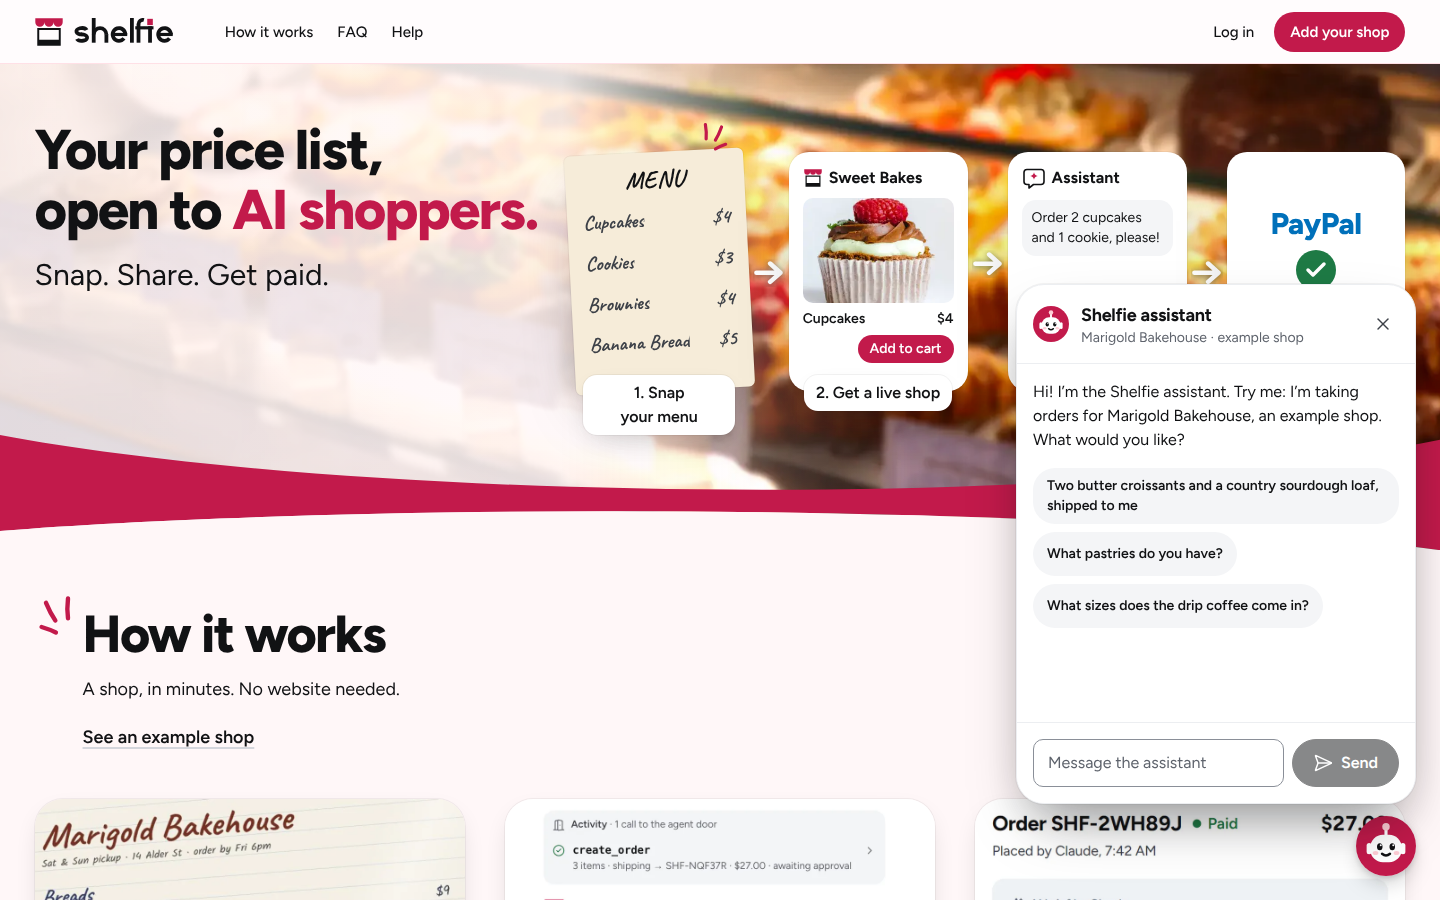
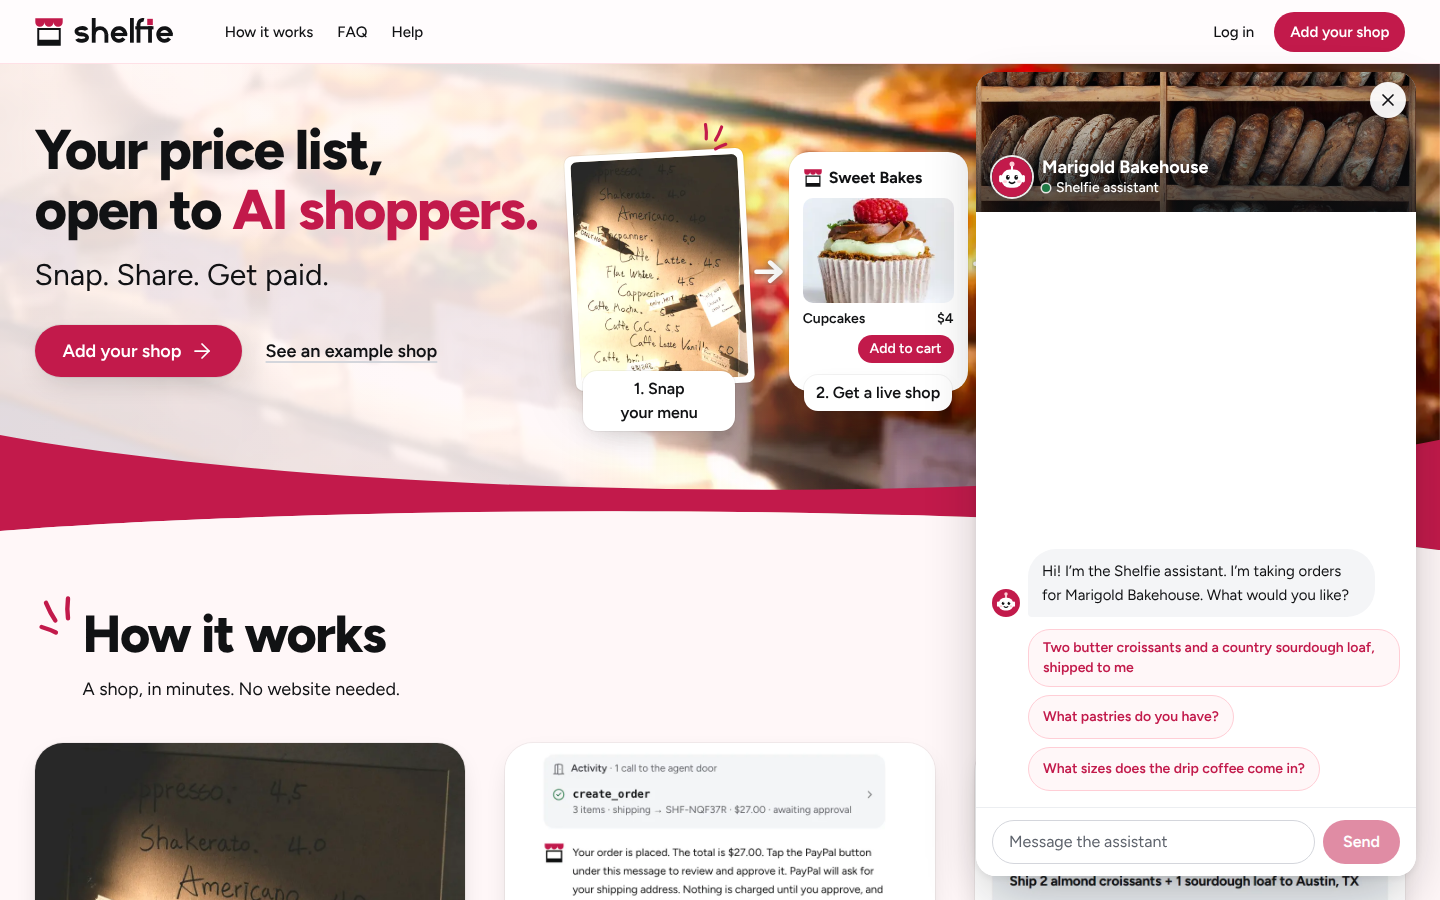
Home chat: polish (14 px card text, tokens), docs, screenshots of the nut-allergy order

diff --git a/src/components/landing/chat/home-chat-panel.css b/src/components/landing/chat/home-chat-panel.css
@@ -7,15 +7,15 @@
 .home-chat-cover { height: 8.75rem; }
 .home-chat-sheet .home-chat-cover { height: 6.5rem; }
 .home-chat-sheet .home-chat-who { padding-bottom: 0.75rem; }
-.home-chat-scrim { background: linear-gradient(180deg, rgb(0 0 0 / 0.08) 0%, rgb(20 8 12 / 0.25) 45%, rgb(20 8 12 / 0.72) 100%); }
-.home-chat-cover[data-cover] .home-chat-shop { color: var(--color-on-dark); text-shadow: 0 1px 10px rgb(0 0 0 / 0.4); }
-.home-chat-cover[data-cover] .home-chat-sub { color: var(--color-on-dark); text-shadow: 0 1px 8px rgb(0 0 0 / 0.4); }
+.home-chat-scrim { background: linear-gradient(180deg, rgb(var(--ink-rgb) / 0.08) 0%, rgb(var(--ink-rgb) / 0.25) 45%, rgb(var(--ink-rgb) / 0.72) 100%); }
+.home-chat-cover[data-cover] .home-chat-shop { color: var(--color-on-dark); text-shadow: 0 1px 10px rgb(var(--ink-rgb) / 0.4); }
+.home-chat-cover[data-cover] .home-chat-sub { color: var(--color-on-dark); text-shadow: 0 1px 8px rgb(var(--ink-rgb) / 0.4); }
 .home-chat-cover:not([data-cover]) .home-chat-shop { color: var(--color-ink); }
 .home-chat-cover:not([data-cover]) .home-chat-sub { color: var(--color-ink-soft); }
-.home-chat-avatar { border-radius: 9999px; box-shadow: 0 0 0 2px rgb(var(--white-rgb) / 0.9), 0 4px 12px -2px rgb(0 0 0 / 0.4); }
+.home-chat-avatar { border-radius: 9999px; box-shadow: 0 0 0 2px rgb(var(--white-rgb) / 0.9), 0 4px 12px -2px rgb(var(--ink-rgb) / 0.4); }
 
 /* Header buttons: white discs on the photo, so they read on any cover; 36 px drawn, 44 px to press. */
-.home-chat-hdr-btn { position: relative; background: rgb(var(--white-rgb) / 0.94); color: var(--color-ink); box-shadow: 0 2px 8px -2px rgb(0 0 0 / 0.35); }
+.home-chat-hdr-btn { position: relative; background: rgb(var(--white-rgb) / 0.94); color: var(--color-ink); box-shadow: 0 2px 8px -2px rgb(var(--ink-rgb) / 0.35); }
 .home-chat-hdr-btn::after { content: ''; position: absolute; inset: -0.25rem; }
 @media (hover: hover) { .home-chat-hdr-btn:hover { background: var(--color-surface); } }
 .home-chat-hdr-btn:focus-visible { outline: 2px solid var(--color-on-dark); outline-offset: 2px; box-shadow: 0 0 0 4px var(--color-focus); }

diff --git a/src/components/landing/chat/HomeChatPanel.tsx b/src/components/landing/chat/HomeChatPanel.tsx
@@ -70,7 +70,7 @@ function ItemCards({ cards, onPick }: { cards: ItemCard[]; onPick: (card: ItemCa
                 </span>
               )}
             </span>
-            <span className="flex flex-1 items-start justify-between gap-1.5 px-2 pt-1.5 pb-2 text-[0.8125rem] leading-[1.125rem]">
+            <span className="flex flex-1 items-start justify-between gap-1.5 px-2 pt-1.5 pb-2 text-sm leading-5">
               <span className="min-w-0 font-semibold text-ink [overflow-wrap:anywhere]">{card.name}</span>
               <span className="type-price shrink-0 text-ink-soft">{formatUSD(card.priceCents)}</span>
             </span>
@@ -238,7 +238,7 @@ export function HomeChatPanel(props: HomeChatPanelProps) {
           const view = approvalCard(entry);
           const Icon = view.approve ? ReceiptText : SETTLED[view.label];
           return (
-            <p className="mx-auto flex w-fit max-w-full items-center gap-2 rounded-full bg-blush px-3.5 py-1.5 text-[0.8125rem] leading-5 font-semibold text-ink-soft">
+            <p className="mx-auto flex w-fit max-w-full items-center gap-2 rounded-full bg-blush px-3.5 py-1.5 text-sm leading-5 font-semibold text-ink-soft">
               <Icon aria-hidden className={cn('size-4 shrink-0', view.approve ? 'text-accent-ink' : 'text-ok')} />
               <span>
                 {entry.orderNumber ? `Order ${entry.orderNumber}` : 'Order'} placed · {view.approve ? 'approve it below' : view.label.toLowerCase()}

diff --git a/src/components/landing/home-chat.css b/src/components/landing/home-chat.css
@@ -66,10 +66,11 @@ body:has([data-home-chat]) footer[data-site-chrome] [data-footer-end] {
   bottom: var(--home-chat-edge);
   width: min(27.5rem, calc(100vw - 2 * var(--home-chat-edge)));
   height: calc(100dvh - 6rem);
-  overflow: hidden;
+  /* clip, not hidden: nothing (a focus, a scrollIntoView) can scroll the frame itself and push the cover out. */
+  overflow: clip;
   border-radius: 1.25rem;
   background: var(--color-surface);
-  box-shadow: 0 24px 60px -12px rgb(60 20 35 / 0.3), 0 2px 8px rgb(60 20 35 / 0.08);
+  box-shadow: 0 24px 60px -12px rgb(var(--ink-rgb) / 0.3), 0 2px 8px rgb(var(--ink-rgb) / 0.08);
   transform-origin: bottom right;
   transition: opacity var(--duration-base) var(--ease-out), transform var(--duration-base) var(--ease-out);
 }
@@ -79,7 +80,7 @@ body:has([data-home-chat]) footer[data-site-chrome] [data-footer-end] {
 .home-chat-sheet { position: fixed; inset: auto 0 0 0; margin: 0; padding: 0;
   width: 100%; max-width: 100%; max-height: none;
   height: min(90dvh, calc(var(--assistant-vh, 100dvh) - var(--assistant-top-gap)));
-  overflow: hidden;
+  overflow: clip;
   translate: 0 var(--assistant-vy, 0);
   border-radius: var(--sheet-radius) var(--sheet-radius) 0 0;
   background: var(--color-surface); box-shadow: var(--sheet-shadow);

diff --git a/e2e/home-chat.spec.ts b/e2e/home-chat.spec.ts
@@ -484,7 +484,16 @@ for (const [label, viewport] of [['1440', DESKTOP], ['390', PHONE]] as const) {
       await page.mouse.move(0, 0);
       await page.waitForTimeout(700);
       await a11y(page);
-      if (SHOTS) await page.screenshot({ path: `${SHOTS}/chat-b-${label}-conversation.png` });
+      if (SHOTS) {
+        // The picture shows the cards and the pinned order together: the log scrolled back to the reply with the cards.
+        await box.blur();
+        await chat.locator('[data-entry="assistant"]').filter({ has: page.locator('[data-item-card]') }).evaluate((el) => {
+          const scroller = el.closest('.home-chat-scroll')!;
+          scroller.scrollTop += el.getBoundingClientRect().top - scroller.getBoundingClientRect().top - 16;
+        });
+        await page.waitForTimeout(300);
+        await page.screenshot({ path: `${SHOTS}/chat-b-${label}-conversation.png` });
+      }
 
       await page.keyboard.press('Escape');
       await expect(chat).toBeHidden();

diff --git a/CLAUDE.md b/CLAUDE.md
@@ -46,7 +46,7 @@ DATABASE_PATH=data/measure/m.db BASE_URL=http://localhost:3109 npx tsx scripts/m
 - **Design and brand**: photo-first "Storefront" direction (white page, Figtree with `text-rendering: geometricPrecision`, one pomegranate accent `#c21a4b`); tokens in `src/app/globals.css`, system in `docs/DESIGN.md`. Primitives are shadcn-based (`components.json`, new-york) in lowercase files under `src/components/ui` (`@/components/ui/button`); `cn()` is `@/lib/utils` (clsx + tailwind-merge, `cx` is an alias); shadcn's colour names map onto our closed palette in `@theme`. Errors use `error` (vermilion, never the accent); helpful notes (AI brief, allergy) use `note`. Motion: `motion` under `MotionProvider` (root layout: `LazyMotion` strict + `MotionConfig reducedMotion="user"`, so use `m.*`, never `motion.*`); primitives `Reveal`, `Stagger`/`StaggerItem`, `Pressable`, `CountUp`, `StatusSwap` in `src/components/motion`; only transform and opacity animate. An element that starts hidden for an entrance carries `data-entrance` (or a motion `data-slot`) so the motion-off fallback shows it (`tests/ui/motion-off.test.ts`); `Reveal` reads reduced motion through `usePrefersReducedMotion` (reactive; motion's own hook reads it once). The logo ("Awning": a pomegranate scalloped awning over an ink instant print, plus a drawn wordmark; rules in `docs/DESIGN.md` "Logo") is `Logo`/`LogoMark` in `src/components/brand/Logo.tsx` (paths from `logo-paths.ts`, generated with the files in `public/brand/` and `docs/judge/logo/final/` by `node docs/judge/logo/tools-B/build.mjs final`); never set "shelfie" in Figtree as the logo. The favicon `src/app/icon.svg` turns its ink white in dark mode; the Open Graph image is `src/app/opengraph-image.png` (`node scripts/make-og-image.mjs`). **PWA**: `src/app/manifest.ts` + `src/lib/brand/pwa.ts`, icons by `npx tsx scripts/make-icons.ts public/brand/mark.svg '#ffffff'` (white tile, maskable art inside the 80% safe circle), no service worker on purpose; `E2E_PORT=3150 npx playwright test e2e/pwa.spec.ts` checks installability in full Chromium.
 - **Services**: `src/lib/services.ts` is the composition root (db, PayPal client or fake, toolkit, Anthropic).
 - **Seller auth** (`src/lib/auth`): accounts with email and password (scrypt `password.ts`, 15 to 128 characters `password-policy.ts`), 30-day server-side sessions (`session.ts`, the cookie is a random token and the DB holds its SHA-256) and a one-time recovery key (`recovery.ts`, no email provider). `owner.ts` decides ownership: an account's shop answers only to that account's session; an unattached shop (seed, harness) to its per-shop httpOnly owner cookie (hash stored). Guest shops need `SHELFIE_ALLOW_GUEST_SHOPS=1` (`guest.ts`, harness only, ignored when `RENDER` is set, never in production). Deleting a shop or account (`src/lib/catalog/delete-shop.ts`, `/account`, foot of Settings) needs the password, is refused while orders are open, and retires the slug (`retired_slugs`); PayPal's catalog has no delete, so its products stay in the sandbox.
-- **Cart**: a tile opens the item sheet (`shop/ItemSheet.tsx`, `?item=<id>`); `+` adds a single-option item directly. `shop/use-cart-state.ts` stores only `{itemId, optionId, qty}` in `localStorage` (`shelfie:cart:<slug>`, 24 h); client totals are display-only. `POST /api/checkout/[slug]` (same-origin, rate-limited before the body, strict zod refuses any price, totals from `priceOrder`) calls `createOrderForShop` as `STOREFRONT_AGENT_NAME` with a 20-minute approval window; an agent claiming that name is recorded as unnamed. From 1024 px the cart shares the assistant's dock, one panel at a time. The home page's chat (`landing/HomeChat.tsx`, bot drawing `landing/BotMark.tsx`) is the same buyer console (`AssistantShell` with its `subtitle`/`mark`/`greeting` props) taking orders for the example shop, rendered by `src/app/page.tsx` only while `marigold-bakehouse` is live and takes orders: a panel above the bottom-right launcher from 1024 px that opens itself after 4 s once per session (sessionStorage), a bottom sheet with a greeting bubble below; `?chat=0`/`?chat=1` force its auto-open off/on, and it starts off under `SHELFIE_TEST`.
+- **Cart**: a tile opens the item sheet (`shop/ItemSheet.tsx`, `?item=<id>`); `+` adds a single-option item directly. `shop/use-cart-state.ts` stores only `{itemId, optionId, qty}` in `localStorage` (`shelfie:cart:<slug>`, 24 h); client totals are display-only. `POST /api/checkout/[slug]` (same-origin, rate-limited before the body, strict zod refuses any price, totals from `priceOrder`) calls `createOrderForShop` as `STOREFRONT_AGENT_NAME` with a 20-minute approval window; an agent claiming that name is recorded as unnamed. From 1024 px the cart shares the assistant's dock, one panel at a time. The home page's chat (`landing/HomeChat.tsx` frame, `landing/chat/HomeChatPanel.tsx` inside, bot drawing `landing/BotMark.tsx`) is the same buyer console (`useBuyerConsole`, its own look: cover-photo header, item cards from the turn's `list_products` results via `chat/order.ts`, the placed order pinned above the composer) taking orders for the example shop, rendered by `src/app/page.tsx` only while `marigold-bakehouse` is live and takes orders: a tall panel (440 px, viewport less 96 px) in the launcher's corner from 1024 px that opens itself after 4 s once per session (sessionStorage), a 90% bottom sheet with a greeting bubble below; `?chat=0`/`?chat=1` force its auto-open off/on, and it starts off under `SHELFIE_TEST`.
 - **Sound** (`src/lib/feedback`): oscillators only, no audio files, no `AudioContext` before the first gesture. `Tactile` plays `tick` on every press; `feedback('add')` and the dashboard's `order` chime are the others. One per-device switch for sound and vibration (`shelfie:feedback:v1`): `SoundToggle` in the footer, `Sound and vibration` in Settings.
 - **Tests** live in `tests/` (unit), `tests/sandbox` and `tests/ai-live` (network), `e2e/` (Playwright).
 

diff --git a/docs/DESIGN.md b/docs/DESIGN.md
@@ -235,7 +235,7 @@ Built from the owner's reference image (run 6), and the one place the rules abov
 - **PayPal's logo:** where PayPal appears as a brand mark on the public site it is PayPal's own artwork (`public/brand/paypal/`, from PayPal's CDN, unmodified: no recolouring, stretching or effects), as an `<img alt="PayPal">`; running text, FAQ answers, captions and PayPal's checkout buttons stay text. The full colour logo goes only on white (the hero chain's fourth card, at least 60 px wide with about half its height clear around it); the phone tile, too narrow for that, carries the PP mark; on the cocoa closing band it sits on a white `Payments by` chip (12 px of padding above and below and a 12 px gap from the words, half the 24 px logo height), because PayPal publishes no white variant (`paypal-white.svg` and similar answer 404).
 - **Footer:** the charcoal band inside `max-w-site` + `px-band-gutter`, two rows split by a hairline, with one padding (`--footer-pad`, 12 px, 16 px from 768) above, either side of the line and below. Row one: the logo, the four links (centred on the page from 768 px by a `1fr auto 1fr` grid) and GitHub (its drawn mark on the content edge). Row two: the test-mode sentence, then Privacy, agents.txt, llms.txt and the Sound switch at the right edge; under 1024 px the links and switch come first and the sentence is the last line.
 - **Sound switch:** the footer's control reads `Sound on` / `Sound off` beside its speaker icon, in an outlined 44 px pill; its accessible name is `Sound` with `aria-pressed`.
-- **Home chat:** a round pomegranate launcher at the bottom right (above `env(safe-area-inset-bottom)`) with Shelfie's own bot drawing (`landing/BotMark.tsx`: white head, ink eyes, blush cheeks and antenna; never a stock icon or an AI company's mark) and an ink unread dot until first opened. It opens the real buyer console for the example shop: a 400 x 520 panel anchored above it from 1024 px, right-aligned with the launcher and 12 px above it (its log reads from the top while the conversation is short, the starters are wrapping chips, one 16 px inset on every side, a one-line subtitle "<shop> · example shop" (the phone sheet keeps "Ordering from <shop> · example shop"), the message box and a 48 px Send on one row; it never covers the hero headline; auto-opens once per session after 4 s, never taking focus, and only on screens at least 700 px tall; its height stops short of the sticky header), a bottom sheet below 1024 px, where a speech bubble ("Hi! Want to try ordering?") replaces the auto-open. Scrolled to the end, the launcher rests in the footer's bottom-right corner, and only that corner is kept clear (`home-chat.css`): from 640 px the footer's last row stops short of it, under 640 px the test-mode sentence (the last line there) narrows beside it and is centred on it, so the two read as one row; the band itself keeps its even padding. Entrances are CSS opacity/transform only.
+- **Home chat:** a round pomegranate launcher at the bottom right (above `env(safe-area-inset-bottom)`) with Shelfie's own bot drawing (`landing/BotMark.tsx`: white head, ink eyes, blush cheeks and antenna; never a stock icon or an AI company's mark) and an ink unread dot until first opened. It opens the real buyer console for the example shop (`landing/chat/HomeChatPanel.tsx`, the owner's approved mockup "B, tall and shop-aware"): from 1024 px a panel 440 px wide and the viewport's height less 96 px, 24 px from the right and bottom, 20 px radius, soft shadow, standing where the launcher was (the launcher hides while it is open); below 1024 px a bottom sheet of 90% of the screen. Its head is a strip of the shop's cover photo (140 px, 104 px in the sheet) under a dark wash, with the bot, the shop's name, "Shelfie assistant" with a green online dot, and white round Start over and Close buttons (36 px drawn, 44 px to press). Buyer bubbles are pomegranate, the assistant's soft grey with the bot at their foot; three rising dots while a reply streams. A reply that names items its turn's `list_products` returned shows up to four cards in two columns (4:3 photo, name, price; only tool results, never invented; an example photo says "Example photo"); a press puts "I’d like the …" in the message box, unsent. Once `create_order` succeeds, a blush strip pinned above the message box lists the lines, shipping and Total with the PayPal approve button (the log keeps only an "Order … placed · approve it below" marker). Starters and quick replies are blush chips; the message box is a pill beside a pomegranate Send pill on one row. It auto-opens once per session after 4 s, never taking focus, and only on screens at least 700 px tall; on phones a speech bubble ("Hi! Want to try ordering?") replaces the auto-open. Scrolled to the end, the launcher rests in the footer's bottom-right corner, and only that corner is kept clear (`home-chat.css`): from 640 px the footer's last row stops short of it, under 640 px the test-mode sentence (the last line there) narrows beside it and is centred on it, so the two read as one row; the band itself keeps its even padding. Entrances are CSS opacity/transform only.
 
 ## Rules
 

diff --git a/docs/DECISIONS.md b/docs/DECISIONS.md
@@ -389,3 +389,12 @@ The owner asked for three different mockups of the expanded chatbot to review. T
 - **A mockup opens at once and never auto-opens again** (`autoOpen` is off with `?chatui=`, the unread dot starts cleared). Reason: the owner should see it on load without waiting 4 s.
 - **The home page passes the example shop's cover and listed menu (name, lowest price, own photo) to the chat.** Mockup B shows item cards from it; only seller photos are used, never library examples, as for agents.
 - **Screenshots come from a mocked stream built from the seeded shop's real menu** (`e2e/chatui.spec.ts`: real item ids, names, prices and shipping fee). Reason: reproducible and no Claude or PayPal calls; the live app still uses the real assistant.
+
+## Run 10: mockup B becomes the home chat (2026-11-11)
+The owner approved mockup B ("Tall and shop-aware"). `?chatui=` and mockups A and C are gone; B lives in `src/components/landing/chat/` (`HomeChatPanel.tsx`, `ChatLog.tsx`, `order.ts`).
+- **Item cards come from the turn's `list_products` results, filtered to the items the reply names** (whole name or its plural, at most four). Reason: names and prices are the shop's, never the model's text, and a full menu listing doesn't turn into four arbitrary cards. Pictures come from the home page's menu by the Part A3 rules, so an example photo is labelled "Example photo".
+- **The pinned order shows its lines always (no fold) and no fine print**, as in the mockup; the assistant's reply already says nothing is charged until approval.
+- **The desktop launcher hides while the panel is open** (the panel stands in its corner); closing shows it again synchronously (`flushSync`) so focus can return to it.
+- **The frame uses `overflow: clip`.** Reason: with `hidden`, a `scrollIntoView` inside the log scrolled the whole panel and pushed the cover strip out.
+- **Wording:** the subtitle is "Shelfie assistant" and the greeting "I’m taking orders for Marigold Bakehouse", with no "example shop" (a parallel change removes that phrase from public pages); the footer's test-mode sentence keeps the sandbox honest.
+- **`ConsoleComposer` takes `sendVariant`/`sendIcon`** (was the mockups' `iconSend`); the home chat's Send is the brand pill with no icon. Defaults give the shop console's composer unchanged.
